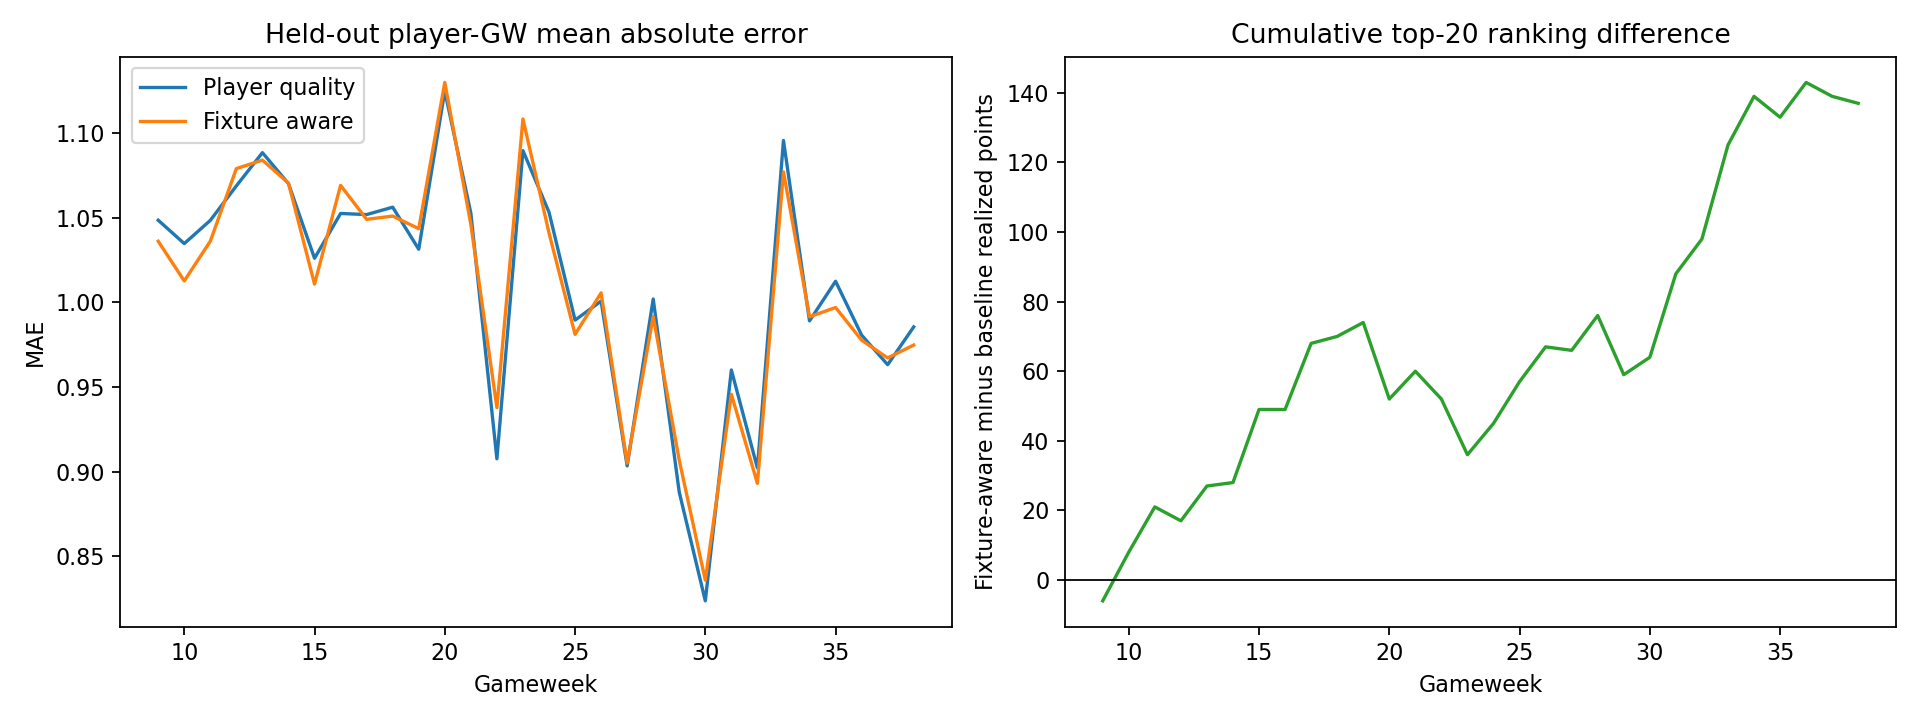
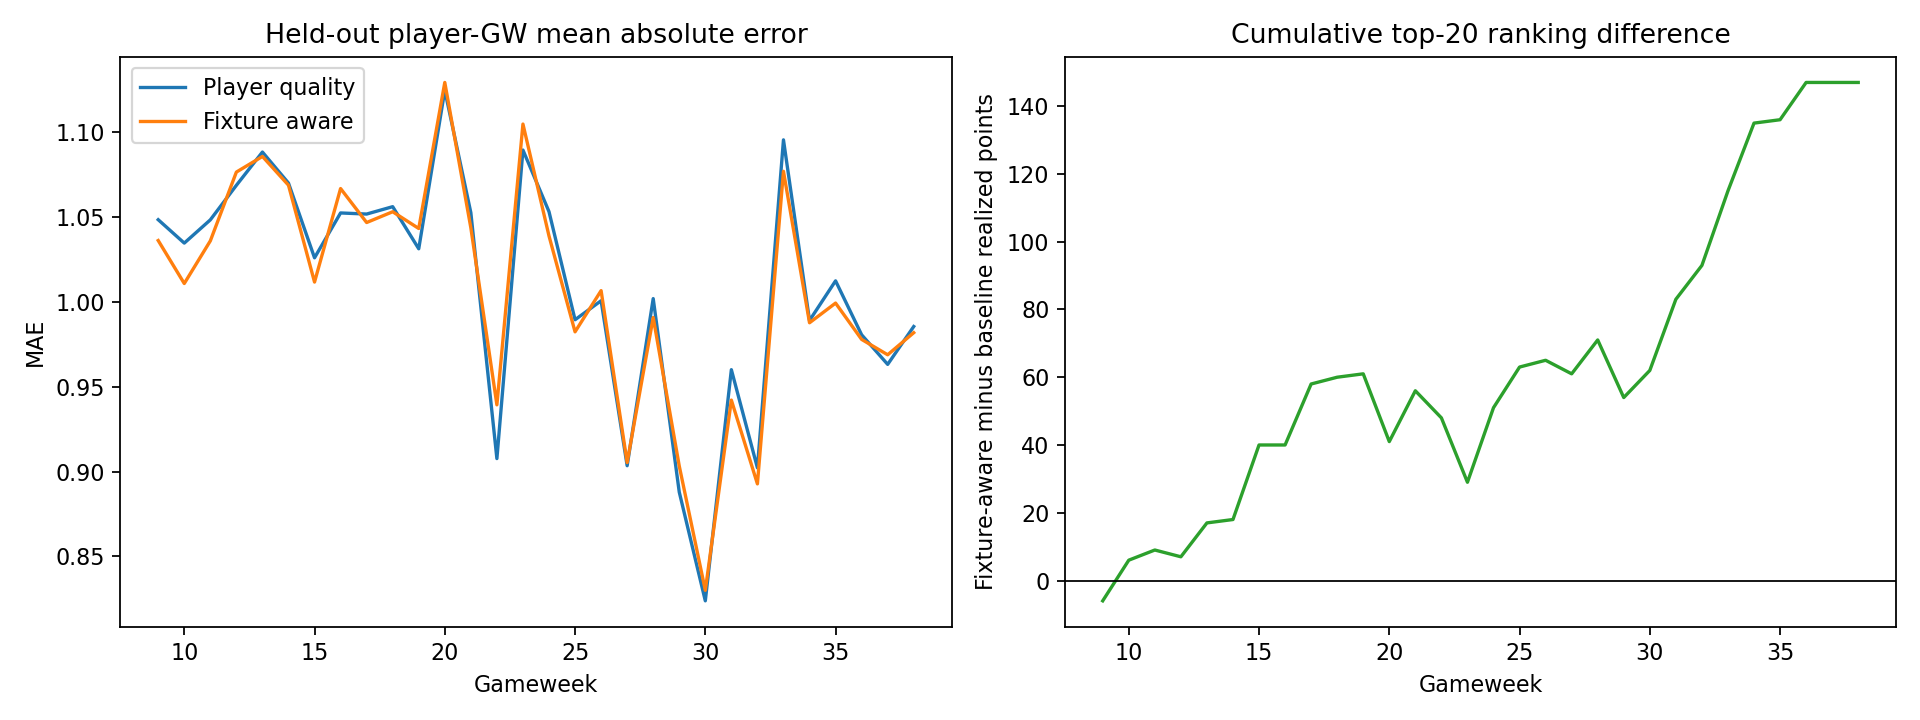
Freeze fixture ratings at gameweek deadlines

diff --git a/fpl_fixture_hypothesis/fpl_fixture_hypothesis.py b/fpl_fixture_hypothesis/fpl_fixture_hypothesis.py
@@ -111,10 +111,14 @@ def download_season(season: str, cache: Path, data_root: Path | None = None) -> 
     return p, f
 
 
-def pre_match_elo(fixtures: pd.DataFrame, k: float = 24.0, home_bonus: float = 65.0) -> pd.DataFrame:
-    """Ratings are frozen for concurrent kickoffs, updated only after matches finish.
+def pre_match_elo(fixtures: pd.DataFrame, k: float = 24.0, home_bonus: float = 65.0,
+                  freeze_by_event: bool = False) -> pd.DataFrame:
+    """Calculate chronological Elo ratings before a fixture or gameweek.
 
-    Teams begin each season at 1500. We exclude GW 1-8 from statistical tests.
+    Ratings are always frozen for concurrent kickoffs. With ``freeze_by_event``,
+    every fixture in a gameweek receives the rating available at that deadline;
+    this is required for pre-deadline forecasts and prevents double-gameweek
+    results from informing a later fixture's forecast.
     """
     f = fixtures.copy()
     for c in ("id", "event", "team_h", "team_a", "team_h_score", "team_a_score"):
@@ -124,7 +128,8 @@ def pre_match_elo(fixtures: pd.DataFrame, k: float = 24.0, home_bonus: float = 6
     f = f.sort_values(["kickoff_time", "id"]).reset_index(drop=True)
     ratings: dict[int, float] = {}
     records = []
-    for time, matches in f.groupby("kickoff_time", sort=True):
+    batch = "event" if freeze_by_event else "kickoff_time"
+    for _, matches in f.groupby(batch, sort=True):
         delta: dict[int, float] = {}
         # Do not use outcomes from simultaneous fixtures to rate their opponents.
         for m in matches.itertuples(index=False):
@@ -143,7 +148,8 @@ def pre_match_elo(fixtures: pd.DataFrame, k: float = 24.0, home_bonus: float = 6
 
 
 def get_fixture_data(seasons: tuple[str, ...], cache: Path,
-                     data_root: Path | None = None) -> tuple[pd.DataFrame, pd.DataFrame]:
+                     data_root: Path | None = None,
+                     freeze_elo_by_event: bool = False) -> tuple[pd.DataFrame, pd.DataFrame]:
     all_players, all_fixtures = [], []
     for season in seasons:
         p, f = download_season(season, cache, data_root)
@@ -167,7 +173,7 @@ def get_fixture_data(seasons: tuple[str, ...], cache: Path,
         if duplicate_count:
             print(f"Warning: {season}: {duplicate_count} duplicate player-fixture records dropped")
             p = p.drop_duplicates(["element", "fixture"])
-        elo = pre_match_elo(f)
+        elo = pre_match_elo(f, freeze_by_event=freeze_elo_by_event)
         elo["season"] = season
         # Attach season-specific Elo levels for descriptive tier comparisons.
         eligible = elo.loc[elo["event"] >= 9]

diff --git a/fpl_fixture_hypothesis/heldout_prediction.py b/fpl_fixture_hypothesis/heldout_prediction.py
@@ -135,6 +135,7 @@ def save_outputs(test: pd.DataFrame, gameweeks: pd.DataFrame, out: Path) -> dict
         "training_seasons": list(SEASONS),
         "holdout_season": HOLDOUT_SEASON,
         "features_frozen_by_gameweek": True,
+        "elo_frozen_by_gameweek": True,
         "fixture_level": {
             "baseline": metrics(test["total_points"], test["baseline_prediction"]),
             "fixture_aware": metrics(test["total_points"], test["fixture_prediction"]),
@@ -195,7 +196,10 @@ def main() -> None:
     args = parser.parse_args()
 
     seasons = SEASONS + (HOLDOUT_SEASON,)
-    appearances, _ = get_fixture_data(seasons, Path(__file__).parent / "data", args.data_root)
+    appearances, _ = get_fixture_data(
+        seasons, Path(__file__).parent / "data", args.data_root,
+        freeze_elo_by_event=True,
+    )
     frame = pre_deadline_features(appearances)
     train = frame.loc[frame["season"].isin(SEASONS)].copy()
     test = frame.loc[frame["season"].eq(HOLDOUT_SEASON)].copy()
